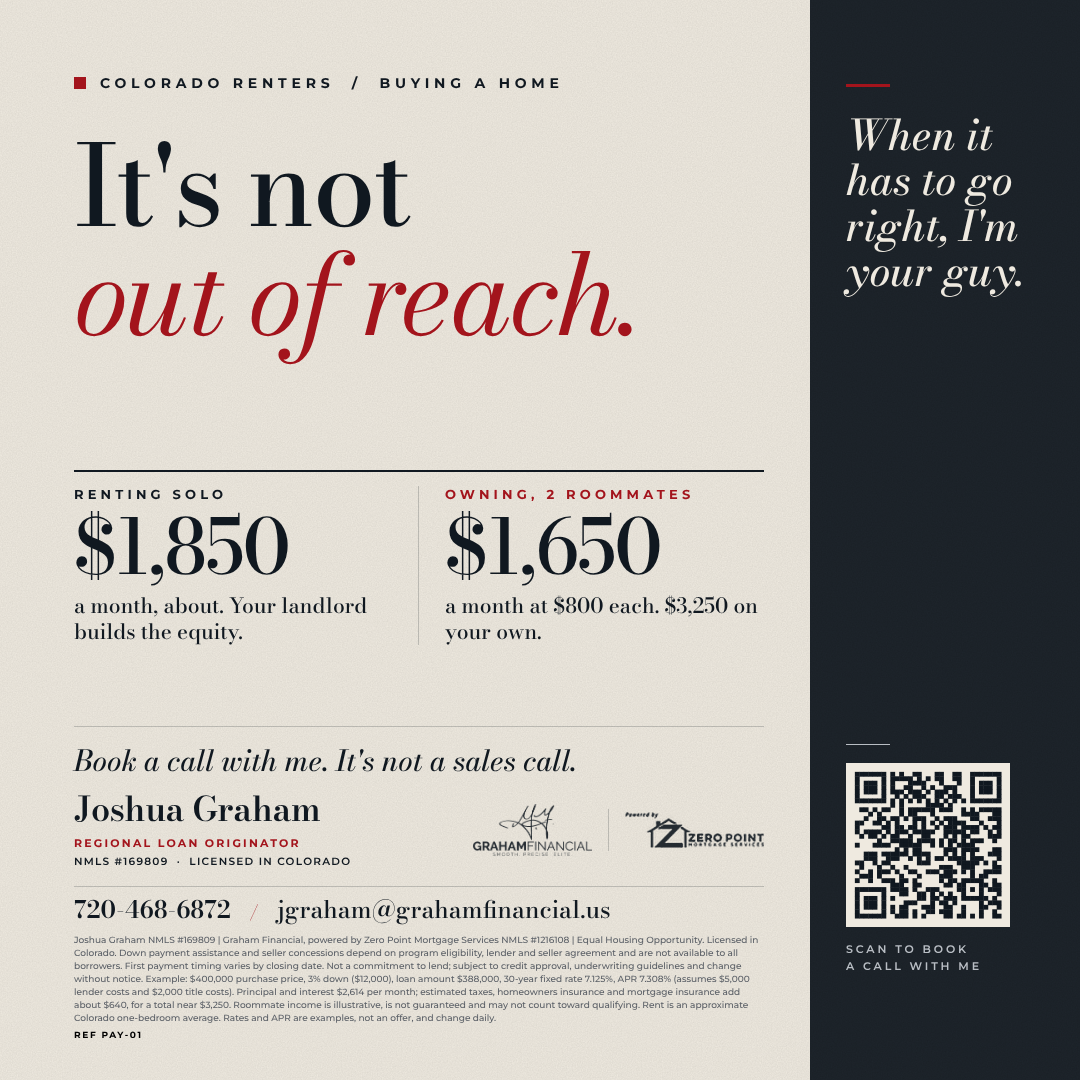
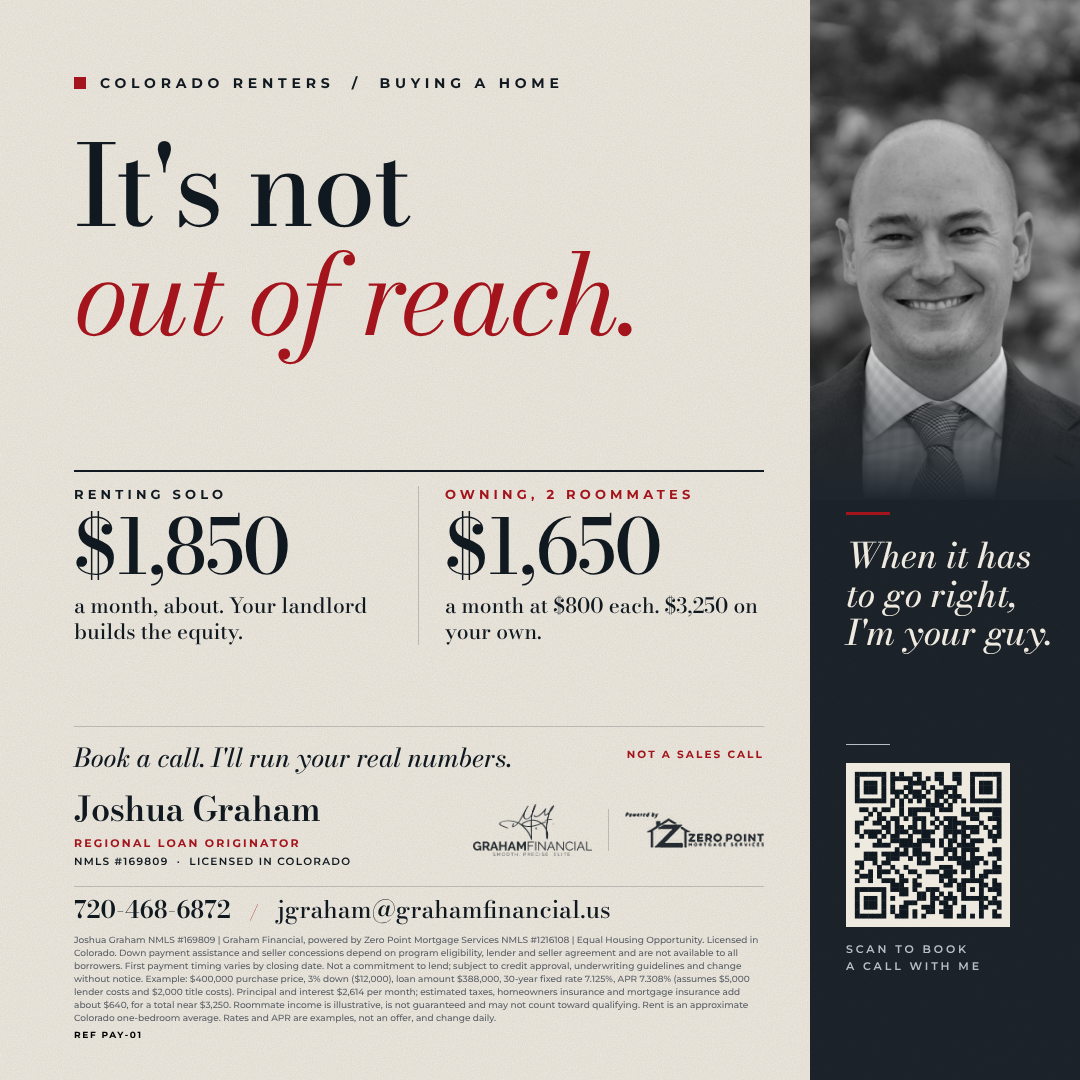
Flyers: photo panel with 'When it has to go right, I'm your guy', reason on the call line, QR kept
Claude-Session: https://claude.ai/code/session_01BCcskEaN45pwtrM4t2VKHx

diff --git a/src/smart-money/data.js b/src/smart-money/data.js
@@ -1043,7 +1043,7 @@ I'd rather show you your real numbers than guess. Think of me when you want your
   {
     ref: "PAY-01", bank: "consumer", name: "It's Not Out of Reach (payment, roommates)", lender: "N/A — call; route to payment, DPA and seller-credit scenarios",
     audience: "consumer", license: "required", flyer: "/smart-money/flyers/PAY-01.png", footer: "pay",
-    cta: `Book a consultation call with me. It's not a sales call. When it has to go right, I'm your guy. Save my info 👉 ${BRAND.booking}`,
+    cta: `Book a call and I'll run YOUR numbers, roommates and all. It's not a sales call. When it has to go right, I'm your guy. Save my info 👉 ${BRAND.booking}`,
     painPoints: ["priced-out", "renting"], magnet: "book-5", skool: "Homebuyers",
     highlights: ["Owning with roommates can land near what you pay in rent", "Your payment builds your equity, not your landlord's", "A call, not a sales call"],
     notes: "Payment-bearing (Reg Z): the pay footer MUST travel with every post. $400K example: P&I $2,614, total near $3,250, APR 7.308%. Confirm ZPM is fine with the roommate framing (roommate income may not count toward qualifying). Refresh rent and rate quarterly.",
@@ -1053,7 +1053,7 @@ Buying a $400K home can cost about $3,250 a month on your own. Bring in two room
 
 It's not out of reach. It's just math nobody showed you.
 
-Book a consultation call with me. It's not a sales call.`,
+Book a call and I'll run YOUR numbers, roommates and all. It's not a sales call.`,
     long: `Most renters assume owning is out of reach. Here is the math on a $400,000 home with 3% down:
 
 - Renting a one-bedroom on your own: about $1,850 a month, and your landlord builds the equity.
@@ -1062,18 +1062,18 @@ Book a consultation call with me. It's not a sales call.`,
 
 It will not fit everyone, and roommate income is not guaranteed or always counted toward qualifying. That's why I'd rather walk through YOUR numbers than guess.
 
-Book a consultation call with me. It's not a sales call. When it has to go right, I'm your guy. Save my info.`,
+Book a call and I'll run YOUR numbers, roommates and all. It's not a sales call. When it has to go right, I'm your guy. Save my info.`,
     video: {
       title: "It's not out of reach",
       hook: "Look at these numbers.",
       points: ["Rent solo vs. owning with roommates", "Why the payment builds your equity", "How I help"],
-      cta: "Book a consultation call with me. It's not a sales call. When it has to go right, I'm your guy. Save my info.",
+      cta: "Book a call and I'll run YOUR numbers, roommates and all. It's not a sales call. When it has to go right, I'm your guy. Save my info.",
     },
   },
   {
     ref: "PAY-02", bank: "consumer", name: "About $100 More a Week, and It's Yours (payment)", lender: "N/A — call; route to payment, DPA and seller-credit scenarios",
     audience: "consumer", license: "required", flyer: "/smart-money/flyers/PAY-02.png", footer: "pay2",
-    cta: `Book a consultation call with me. It's not a sales call. When it has to go right, I'm your guy. Save my info 👉 ${BRAND.booking}`,
+    cta: `Book a call and I'll run YOUR numbers next to your rent. It's not a sales call. When it has to go right, I'm your guy. Save my info 👉 ${BRAND.booking}`,
     painPoints: ["priced-out", "renting"], magnet: "book-5", skool: "Homebuyers",
     highlights: ["About $100 more a week than renting, on a $300K home", "You own it and build your own equity", "A call, not a sales call"],
     notes: "Payment-bearing (Reg Z): the pay2 footer MUST travel with every post. $300K example: P&I $1,961, total near $2,450, APR 7.370%. Gap vs $2,000 rent is about $450 a month, roughly $104 a week. Fits condo/townhome price points (attached median is about $395K statewide, so many buyers will see higher numbers: say so on the call). Refresh rent and rate quarterly.",
@@ -1083,23 +1083,23 @@ On a $300K home, the payment can be about $2,450 a month. That's roughly $100 mo
 
 Wondering if you have a roommate who could move in and close that gap? Let's look at it.
 
-Book a consultation call with me. It's not a sales call.`,
+Book a call and I'll run YOUR numbers next to your rent. It's not a sales call.`,
     long: `Here is the honest math on a $300,000 home with 3% down: a payment near $2,450 a month, all in. If you're paying about $2,000 to rent, that's roughly $100 more a week, and you own the home instead of funding your landlord's.
 
 Prices vary by area and home type, and your numbers may be different, which is exactly why I'd rather show you yours.
 
-Book a consultation call with me. It's not a sales call. When it has to go right, I'm your guy. Save my info.`,
+Book a call and I'll run YOUR numbers next to your rent. It's not a sales call. When it has to go right, I'm your guy. Save my info.`,
     video: {
       title: "About $100 more a week",
       hook: "Look at these numbers.",
       points: ["Rent vs. owning, side by side", "Where the extra $100 a week goes", "How I help"],
-      cta: "Book a consultation call with me. It's not a sales call. When it has to go right, I'm your guy. Save my info.",
+      cta: "Book a call and I'll run YOUR numbers next to your rent. It's not a sales call. When it has to go right, I'm your guy. Save my info.",
     },
   },
   {
     ref: "DWN-01", bank: "consumer", name: "Cash to Close Can Be Near $0 (renters)", lender: "N/A — call; route to payment, DPA and seller-credit scenarios",
     audience: "consumer", license: "required", flyer: "/smart-money/flyers/DWN-01.png", footer: "dpa",
-    cta: `Book a consultation call with me. It's not a sales call. When it has to go right, I'm your guy. Save my info 👉 ${BRAND.booking}`,
+    cta: `Book a call and I'll show you exactly how much you'd bring to closing. It's not a sales call. When it has to go right, I'm your guy. Save my info 👉 ${BRAND.booking}`,
     painPoints: ["no-down-payment", "renting"], magnet: "book-5", skool: "Homebuyers",
     highlights: ["Seller credits of 3 to 6 percent can come back to you at closing", "Down payment assistance can cover the rest for those who qualify", "Cash to close can be near $0 in the right scenario"],
     notes: "No payment amounts or down-payment percent on the flyer. Near $0 is hedged. Conventional seller credits cap at 3 percent with low down payment, FHA at 6 percent, so near $0 usually needs credits AND assistance. Your recent deals ran 3 to 6 percent credits.",
@@ -1107,7 +1107,7 @@ Book a consultation call with me. It's not a sales call. When it has to go right
 
 Sellers are cutting prices, and credits of 3 to 6% of the price can come back to you at closing. On a $400K home that's $12,000 to $24,000. Add down payment assistance and cash to close can be near $0 in the right scenario.
 
-Book a consultation call with me. It's not a sales call.`,
+Book a call and I'll show you exactly how much you'd bring to closing. It's not a sales call.`,
     long: `The biggest block for most renters isn't the payment, it's the cash. Two things can change that:
 
 1. Seller credits. With more than half of Colorado listings taking price cuts, credits of 3 to 6% of the price are common on my deals. On a $400,000 home that is $12,000 to $24,000 back to you at closing.
@@ -1115,18 +1115,18 @@ Book a consultation call with me. It's not a sales call.`,
 
 Together, they can bring cash to close to near $0 in the right scenario. Not every buyer or home qualifies, so let's look at yours.
 
-Book a consultation call with me. It's not a sales call. When it has to go right, I'm your guy. Save my info.`,
+Book a call and I'll show you exactly how much you'd bring to closing. It's not a sales call. When it has to go right, I'm your guy. Save my info.`,
     video: {
       title: "Cash to close can be near $0",
       hook: "You don't need as much cash as you think.",
       points: ["Why sellers are paying credits right now", "How assistance covers the rest", "How I help"],
-      cta: "Book a consultation call with me. It's not a sales call. When it has to go right, I'm your guy. Save my info.",
+      cta: "Book a call and I'll show you exactly how much you'd bring to closing. It's not a sales call. When it has to go right, I'm your guy. Save my info.",
     },
   },
   {
     ref: "WLT-01", bank: "consumer", name: "Home Prices Rose in 45 of 50 Years (wealth building)", lender: "N/A — call; route to payment, DPA and seller-credit scenarios",
     audience: "consumer", license: "required", flyer: "/smart-money/flyers/WLT-01.png", footer: "wealth",
-    cta: `Book a consultation call with me. It's not a sales call. When it has to go right, I'm your guy. Save my info 👉 ${BRAND.booking}`,
+    cta: `Book a call and I'll show you what owning could mean for YOU. It's not a sales call. When it has to go right, I'm your guy. Save my info 👉 ${BRAND.booking}`,
     painPoints: ["renting"], magnet: "book-5", skool: "Homebuyers",
     highlights: ["U.S. home prices rose in 45 of the last 50 years", "The only down years were 2007 to 2011", "Rent builds your landlord's wealth; a home can build yours"],
     notes: "FHFA All-Transactions HPI, Q4 to Q4, 1976 to 2025, nominal. Always say U.S. or nationally; Denver is flat to down lately and prices CAN fall. Never write will appreciate. Data in tools/flyers/data/hpi_annual.json. This is the chart for every wealth-building post.",
@@ -1136,19 +1136,19 @@ Book a consultation call with me. It's not a sales call. When it has to go right
 
 Prices can fall and local markets vary, so let's look at your numbers.
 
-Book a consultation call with me. It's not a sales call.`,
+Book a call and I'll show you what owning could mean for YOU. It's not a sales call.`,
     long: `Nationally, home prices rose in 45 of the last 50 years (FHFA, not adjusted for inflation). The only down years were 2007 through 2011, and prices were back above the old peak about a decade after it.
 
 Here is why that matters. $10,000 invested at 6% earns about $600 a year. A $600,000 home that appreciates 3% grows about $18,000 in a year. Same percentages, a very different base, and when you rent, that growth belongs to your landlord.
 
 Appreciation is never guaranteed, local markets vary and Denver has been flat to down lately. It's about owning something over years, not a quick win.
 
-Book a consultation call with me. It's not a sales call. When it has to go right, I'm your guy. Save my info.`,
+Book a call and I'll show you what owning could mean for YOU. It's not a sales call. When it has to go right, I'm your guy. Save my info.`,
     video: {
       title: "Home prices rose in 45 of 50 years",
       hook: "Look at these numbers.",
       points: ["The 50-year chart: 45 up years, only 2007 to 2011 down", "$600 on $10K vs. about $18K on a $600K home", "How I help"],
-      cta: "Book a consultation call with me. It's not a sales call. When it has to go right, I'm your guy. Save my info.",
+      cta: "Book a call and I'll show you what owning could mean for YOU. It's not a sales call. When it has to go right, I'm your guy. Save my info.",
     },
   },
 ];

diff --git a/dist/index.html b/dist/index.html
@@ -7,7 +7,7 @@
     <meta name="theme-color" content="#1e6e4a" />
     <link rel="manifest" href="/manifest.json" />
     <title>Get Unlocked Producer</title>
-    <script type="module" crossorigin src="/assets/main-16c10b99.js"></script>
+    <script type="module" crossorigin src="/assets/main-3629150c.js"></script>
     <link rel="modulepreload" crossorigin href="/assets/supabase-f19bb01a.js">
   </head>
   <body>

diff --git a/tools/flyers/gen_elite.py b/tools/flyers/gen_elite.py
@@ -103,23 +103,23 @@ CARDS = {
         figures=[dict(label="RENTING SOLO", px=76, big="$1,850", small="a month, about. Your landlord builds the equity."),
                  dict(label="OWNING, 2 ROOMMATES", px=76, big="$1,650", small="a month at $800 each. $3,250 on your own.")],
         panel_line="When it<br>has to go<br>right, I'm<br>your guy.", panel_px=42, rule_top=470,
-        cta=CTA_BOOK, panel_bottom=QR, foot=FOOT_PAY, foot_px=9),
+        cta="Book a call. I&#39;ll run your real numbers.", photo=dict(file="joshua-park-smile.jpg", h=500, size=720, x=-440, y=-40), photo_line="When it has<br>to go right,<br>I&#39;m your guy.", cta_px=26, cta_note="NOT A SALES CALL", panel_bottom=QR, foot=FOOT_PAY, foot_px=9),
     "PAY-02": dict(palette="burgundy", kicker="COLORADO RENTERS &nbsp;/&nbsp; BUYING A HOME",
         h1=["About $100", "more a week."], h1_accent="And it's yours.", h1_px=100,
         figures=[dict(label="RENTING", px=76, big="$2,000", small="a month, about. Your landlord builds the equity."),
                  dict(label="OWNING A $300K HOME", px=76, big="$2,450", small="a month, about, and you build your own.")],
         panel_line="When it<br>has to go<br>right, I'm<br>your guy.", panel_px=42, rule_top=500,
-        cta=CTA_BOOK, panel_bottom=QR, foot=FOOT_PAY2, foot_px=9),
+        cta="Book a call. I&#39;ll run your real numbers.", photo=dict(file="joshua-park-smile.jpg", h=500, size=720, x=-440, y=-40), photo_line="When it has<br>to go right,<br>I&#39;m your guy.", cta_px=26, cta_note="NOT A SALES CALL", panel_bottom=QR, foot=FOOT_PAY2, foot_px=9),
     "DWN-01": dict(palette="camel", kicker="COLORADO RENTERS &nbsp;/&nbsp; BUYING A HOME",
         h1=["Cash to close", "can be"], h1_accent="near $0.", h1_px=100,
         figures=[dict(label="SELLER CREDITS", px=76, big="3&ndash;6%", small="of the price can come back to you. $12,000 to $24,000 on a $400K home."),
                  dict(label="WITH ASSISTANCE", px=76, big="Near $0", small="out of pocket can be possible when credits and help line up.")],
         panel_line="When it<br>has to go<br>right, I'm<br>your guy.", panel_px=42, rule_top=500,
-        cta=CTA_BOOK, panel_bottom=QR, foot=FOOT_CONSUMER),
+        cta="Book a call. I&#39;ll show you your cash to close.", photo=dict(file="joshua-park-smile.jpg", h=500, size=720, x=-440, y=-40), photo_line="When it has<br>to go right,<br>I&#39;m your guy.", cta_px=26, cta_note="NOT A SALES CALL", panel_bottom=QR, foot=FOOT_CONSUMER),
     "WLT-01": dict(palette="peacock", kicker="U.S. HOME PRICES &nbsp;/&nbsp; BUILDING WEALTH", chart=True,
         h1=["Home prices", "rose in"], h1_accent="45 of 50 years.", h1_px=96,
         panel_line="When it<br>has to go<br>right, I'm<br>your guy.", panel_px=42, rule_top=450,
-        cta=CTA_BOOK, panel_bottom=QR, foot=FOOT_WEALTH, foot_px=9.5),
+        cta="Book a call. See what it could mean for you.", photo=dict(file="joshua-park-smile.jpg", h=500, size=720, x=-440, y=-40), photo_line="When it has<br>to go right,<br>I&#39;m your guy.", cta_px=26, cta_note="NOT A SALES CALL", panel_bottom=QR, foot=FOOT_WEALTH, foot_px=9.5),
 }
 
 def qr_svg(url, px, dark, light):
@@ -184,11 +184,15 @@ def page(ref, c):
     ph = c.get("photo")
     if ph:
         img = os.path.join(BRAND, "photos", ph["file"])
+        pline = c.get("photo_line", "Think of me<br>when it has<br>to go right.")
         panel_body = (f'<div style="position:absolute;right:0;top:0;width:270px;height:{ph["h"]}px;background-image:url(file://{img});background-size:auto {ph["size"]}px;background-position:{ph["x"]}px {ph["y"]}px;filter:grayscale(1) contrast(1.08) brightness(.96)"></div>'
                       f'<div style="position:absolute;right:0;top:{ph["h"]-150}px;width:270px;height:150px;background:linear-gradient(to bottom,rgba(0,0,0,0),{p["panel"]})"></div>'
                       f'<div style="position:absolute;right:0;top:{ph["h"]+12}px;width:270px;padding:0 34px 0 36px;box-sizing:border-box"><div style="width:44px;height:3px;background:{rule}"></div>'
-                      f'<p style="margin-top:22px;font:500 italic 35px/1.1 B;color:{p["panel_text"]};white-space:nowrap">Think of me<br>when it has<br>to go right.</p></div>'
-                      f'<p style="position:absolute;right:34px;bottom:104px;font:600 11px/1.6 M;letter-spacing:.26em;color:{p["panel_mute"]}">SMOOTH. PRECISE. ELITE.</p>')
+                      f'<p style="margin-top:22px;font:500 italic 35px/1.1 B;color:{p["panel_text"]};white-space:nowrap">{pline}</p></div>')
+        if pb["kind"] == "qr":
+            panel_body += f'<div style="position:absolute;right:0;bottom:104px;width:270px;padding:0 34px 0 36px;box-sizing:border-box">{bottom}</div>'
+        else:
+            panel_body += f'<p style="position:absolute;right:34px;bottom:104px;font:600 11px/1.6 M;letter-spacing:.26em;color:{p["panel_mute"]}">SMOOTH. PRECISE. ELITE.</p>'
     else:
         panel_body = (f'<div style="position:absolute;right:0;top:0;width:270px;padding:84px 34px 0 36px;box-sizing:border-box"><div style="width:44px;height:3px;background:{rule}"></div>'
                       f'<p style="margin-top:26px;font:500 italic {c.get("panel_px",50)}px/1.08 B;color:{p["panel_text"]};white-space:nowrap">{c.get("panel_line","Think of<br>me when<br>it has to<br>go right.")}</p></div>'
@@ -219,7 +223,8 @@ def page(ref, c):
 <div style="position:absolute;left:74px;width:690px;top:{c.get("rule_top",540)}px;border-top:2px solid {p["ink"]}"></div>
 {ledger_html}
 <div style="position:absolute;left:74px;width:690px;top:726px;border-top:1px solid {p["ink"]}33"></div>
-<p style="position:absolute;left:74px;top:738px;font:500 italic 29px B;color:{p["ink"]};white-space:nowrap">{c["cta"]}</p>
+<p style="position:absolute;left:74px;top:738px;font:500 italic {c.get("cta_px",29)}px B;color:{p["ink"]};white-space:nowrap">{c["cta"]}</p>
+{('<p style="position:absolute;left:74px;width:690px;top:748px;text-align:right;font:700 10.5px M;letter-spacing:.2em;color:' + p["accent"] + '">' + c["cta_note"] + '</p>') if c.get("cta_note") else ""}
 <div style="position:absolute;left:74px;width:690px;top:792px;display:flex;align-items:center;justify-content:space-between">
 <div><p style="font:600 34px/1 B;color:{p["ink"]};letter-spacing:-0.01em;white-space:nowrap">Joshua Graham</p>
 <p style="margin-top:10px;font:700 11px M;letter-spacing:.2em;color:{p["accent"]};white-space:nowrap">REGIONAL LOAN ORIGINATOR</p>
